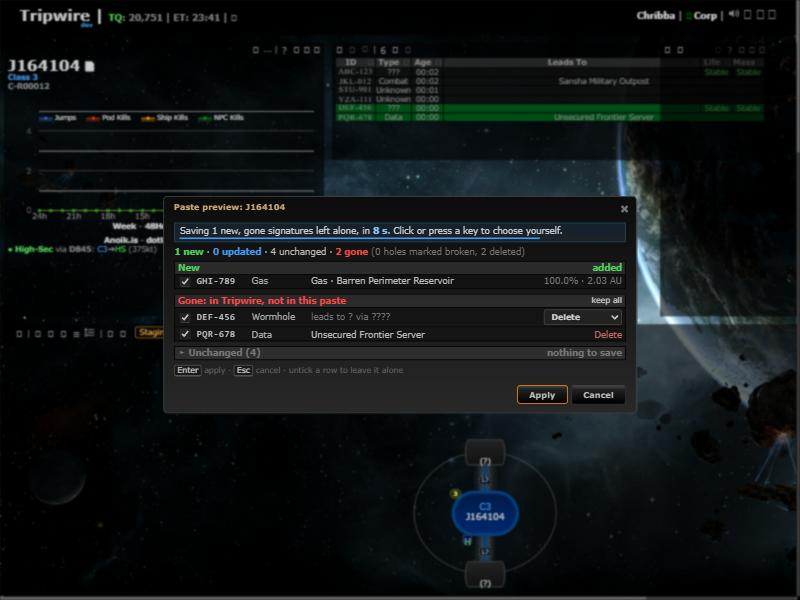
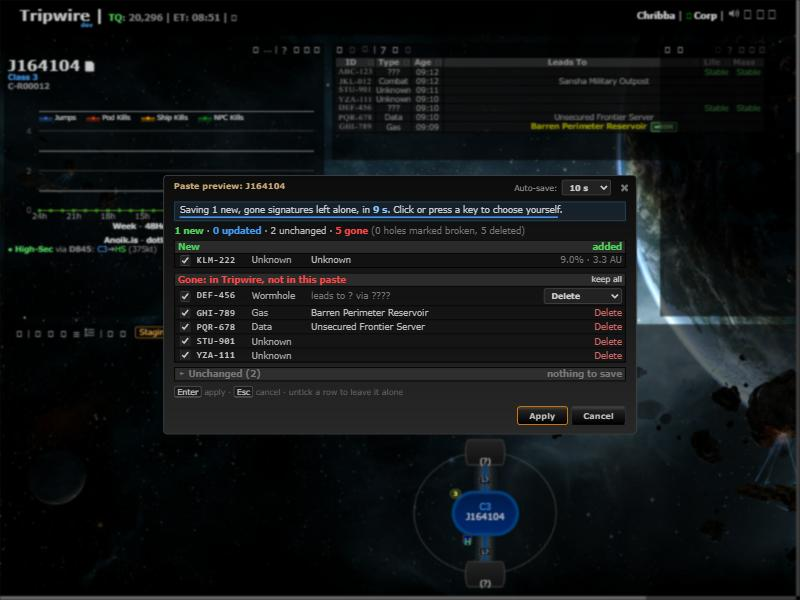
Paste preview: auto-save time drop-down (Never, 3, 5, 10 s)

diff --git a/app/js/fork/paste-preview.js b/app/js/fork/paste-preview.js
@@ -4,7 +4,8 @@ const pastePreview = {
 	// and Gone (in Tripwire but missing from the paste). Only when something would be Gone (or with "Always preview")
 	// a preview dialog lists the groups: untick a row to leave that sig alone, choose Delete or Mark broken for a gone
 	// wormhole (Delete by default; Mark broken: broken-holes.js), "keep all" for the Gone group. Apply (Enter) saves it
-	// all in one request and as one Undo step; Esc cancels and saves nothing. The dialog counts down AUTO_SECONDS: with
+	// all in one request and as one Undo step; Esc cancels and saves nothing. The dialog counts down autoSeconds() (a
+	// drop-down in its title bar: Never, 3, 5 or 10 s, saved in options.pastePreview.autoSeconds, missing = 10): with
 	// no input from the user by then (a click, key, scroll or touch anywhere stops the countdown) the paste is saved without
 	// the Gone group (keepGone: new and updated sigs only, nothing deleted or marked broken). Without anything Gone the
 	// paste saves straight away, as before, and a notice sums it up ("3 added, 1 updated") with an Undo link.
@@ -23,8 +24,18 @@ const pastePreview = {
 
 	DIALOG_ID: "paste-preview-dialog",
 
-	/** Seconds the preview waits for input before it saves the paste without the Gone group */
+	/** Seconds the preview waits for input before it saves the paste without the Gone group (the default) */
 	AUTO_SECONDS: 10,
+
+	/** The auto-save choices: [seconds, label]; 0 = never (the preview waits) */
+	AUTO_CHOICES: [[0, "Never"], [3, "3 s"], [5, "5 s"], [10, "10 s"]],
+
+	/** Auto-save after: options.pastePreview.autoSeconds when it is one of AUTO_CHOICES, else AUTO_SECONDS (0 = never) */
+	autoSeconds: function(opts) {
+		const raw = opts && opts.pastePreview ? opts.pastePreview.autoSeconds : undefined;
+		const v = raw === undefined || raw === null || raw === "" ? NaN : Number(raw);
+		return pastePreview.AUTO_CHOICES.some(function(c) { return c[0] === v; }) ? v : pastePreview.AUTO_SECONDS;
+	},
 
 	/** Preview pastes: on unless options.pastePreview.enabled is false */
 	enabled: function(opts) {
@@ -469,7 +480,7 @@ if (typeof window !== "undefined" && typeof jQuery !== "undefined" && jQuery.fn 
 			if (el) { el.focus(); }
 		}
 
-		// ---- The countdown: no input for AUTO_SECONDS saves the paste without the Gone group ----
+		// ---- The countdown: no input for autoSeconds() saves the paste without the Gone group (0: no countdown) ----
 		function countdownText(left) {
 			const c = pp.countChoices(state.groups);
 			const what = c.neu || c.upd ? "Saving " + [c.neu ? c.neu + " new" : "", c.upd ? c.upd + " updated" : ""].filter(Boolean).join(" and ") : "Closing without changes";
@@ -478,7 +489,9 @@ if (typeof window !== "undefined" && typeof jQuery !== "undefined" && jQuery.fn 
 		function startCountdown() {
 			stopCountdown();
 			const $a = $("#" + pp.DIALOG_ID + " .pp-auto");
-			const total = pp.AUTO_SECONDS * 1000, end = Date.now() + total;
+			const secs = pp.autoSeconds(opts());
+			if (!secs) { $a.hide(); return; }
+			const total = secs * 1000, end = Date.now() + total;
 			let shown = null;
 			$a.show().removeClass("pp-auto-stopped").find(".pp-auto-bar > span").css("width", "100%");
 			const tick = function() {
@@ -516,9 +529,32 @@ if (typeof window !== "undefined" && typeof jQuery !== "undefined" && jQuery.fn 
 			}
 		}
 
+		// The auto-save drop-down in the title bar (top right). Choosing stops this paste's countdown (any input does) and
+		// is saved for the next paste.
+		function autoSelect($d) {
+			const $bar = $d.parent().find(".ui-dialog-titlebar");
+			let $s = $bar.find(".pp-auto-select");
+			if (!$s.length) {
+				$s = $("<label class='pp-auto-select' title='Save the paste without removing anything when you make no choice in time'>Auto-save: <select aria-label='Auto-save after'>"
+					+ pp.AUTO_CHOICES.map(function(c) { return "<option value='" + c[0] + "'>" + pp.escape(c[1]) + "</option>"; }).join("") + "</select></label>");
+				$bar.find(".ui-dialog-titlebar-close").before($s);
+				$s.on("change", "select", function() {
+					const v = Number(this.value);
+					stopCountdown(false);
+					if (typeof options === "undefined") { return; }
+					options.pastePreview = Object.assign({}, options.pastePreview || {}, { autoSeconds: v });
+					try { if (typeof options.save === "function") { options.save(); } } catch (e) { console.warn("paste-preview: save", e); }
+					$("#" + pp.DIALOG_ID + " .pp-auto").show().addClass("pp-auto-stopped").find(".pp-auto-text")
+						.text("Auto-save " + (v ? "after " + v + " s" : "off") + " from the next paste. Choose, then Apply (Enter) or Cancel (Esc).");
+				});
+			}
+			$s.find("select").val(String(pp.autoSeconds(opts())));
+		}
+
 		function open() {
 			const $d = dialog();
 			$d.dialog("option", "title", "Paste preview: " + (systemName(state.systemID) || "this system"));
+			autoSelect($d);
 			render();
 			$d.dialog("open");
 			$d.parent().find(".pp-apply").trigger("focus");
@@ -574,7 +610,8 @@ if (typeof window !== "undefined" && typeof jQuery !== "undefined" && jQuery.fn 
 			if ($d.length && $d.dialog("isOpen")) { $d.dialog("close"); }
 			state = null;
 			if (pp.isEmpty(plan)) {
-				Notify.trigger("Paste: nothing to save" + (s.groups.same.length ? " (" + s.groups.same.length + " unchanged)" : "") + keptText + ".", "blue", 4000);
+				const why = [s.groups.same.length ? s.groups.same.length + " unchanged" : "", kept ? kept + " gone left alone: no choice made" : ""].filter(Boolean).join(", ");
+				Notify.trigger("Paste: nothing to save" + (why ? " (" + why + ")" : "") + ".", "blue", 4000);
 				return;
 			}
 			const payload = plan.payload;
@@ -649,11 +686,20 @@ if (typeof window !== "undefined" && typeof jQuery !== "undefined" && jQuery.fn 
 			forkSettings.register({
 				section: "signatures", order: 21, id: "pastePreview-enabled", type: "checkbox", key: "pastePreview",
 				label: "Preview pastes:",
-				text: "When a paste would remove signatures, show what changes first (gone signatures are deleted when you apply; with no input for " + pp.AUTO_SECONDS + " s only new and updated ones are saved)",
+				text: "When a paste would remove signatures, show what changes first (gone signatures are deleted when you apply)",
 				hint: "Off: a paste adds and updates straight away, with the old \"Click to delete missing sigs\" link.",
 				keywords: ["paste", "preview", "missing", "delete", "broken", "gone", "probe scanner"],
 				get: function(o) { return pp.enabled(o); },
 				set: function(o, on) { o.pastePreview = Object.assign({}, o.pastePreview || {}, { enabled: !!on }); }
+			});
+			forkSettings.register({
+				section: "signatures", order: 21.3, id: "pastePreview-auto", type: "select", key: "pastePreview",
+				label: "Paste preview auto-save:",
+				choices: pp.AUTO_CHOICES.map(function(c) { return [String(c[0]), c[0] ? "After " + c[1] : "Never (wait for me)"]; }),
+				hint: "With no input in time, the preview saves only new and updated signatures: nothing is deleted or marked broken. Also in the preview's top right.",
+				keywords: ["paste", "preview", "auto", "timer", "countdown", "seconds"],
+				get: function(o) { return String(pp.autoSeconds(o)); },
+				set: function(o, v) { o.pastePreview = Object.assign({}, o.pastePreview || {}, { autoSeconds: Number(v) }); }
 			});
 			forkSettings.register({
 				section: "signatures", order: 21.5, id: "pastePreview-always", type: "checkbox", key: "pastePreview",

diff --git a/app/js-test/fork/paste-preview.test.js b/app/js-test/fork/paste-preview.test.js
@@ -56,6 +56,16 @@ describe('pastePreview: settings', () => {
 		assert.strictEqual(pastePreview.always({ pastePreview: { always: true } }), true);
 		assert.strictEqual(pastePreview.always({ pastePreview: { always: true, enabled: false } }), false, 'off wins');
 	});
+	it('auto-save: 10 s unless set to Never, 3 or 5 s; anything else is the default', () => {
+		assert.strictEqual(pastePreview.autoSeconds(undefined), 10);
+		assert.strictEqual(pastePreview.autoSeconds({ pastePreview: {} }), 10);
+		assert.strictEqual(pastePreview.autoSeconds({ pastePreview: { autoSeconds: 0 } }), 0);
+		assert.strictEqual(pastePreview.autoSeconds({ pastePreview: { autoSeconds: 3 } }), 3);
+		assert.strictEqual(pastePreview.autoSeconds({ pastePreview: { autoSeconds: '5' } }), 5);
+		assert.strictEqual(pastePreview.autoSeconds({ pastePreview: { autoSeconds: 7 } }), 10);
+		assert.strictEqual(pastePreview.autoSeconds({ pastePreview: { autoSeconds: null } }), 10);
+		assert.deepStrictEqual(pastePreview.AUTO_CHOICES.map(c => c[0]), [0, 3, 5, 10]);
+	});
 });
 
 describe('pastePreview: parseRows', () => {

diff --git a/app/css/fork/paste-preview.css b/app/css/fork/paste-preview.css
@@ -37,6 +37,9 @@
 .pp-keys { margin-top: 8px; color: #666; font-size: 10px; }
 .pp-keys kbd { font-family: Verdana, sans-serif; font-size: 10px; border: 1px solid #555; border-bottom-width: 2px; border-radius: 3px; padding: 0 3px; color: #ccc; background: #1a1a1a; }
 .pp-ui-dialog .pp-apply { border-color: darkorange; }
+.pp-ui-dialog .ui-dialog-titlebar .pp-auto-select { position: absolute; right: 30px; top: 50%; transform: translateY(-50%);
+	font-size: 10px; font-weight: normal; color: #999; }
+.pp-ui-dialog .pp-auto-select select { background: #222; color: #ccc; border: 1px solid #444; font-size: 10px; font-family: Verdana, sans-serif; }
 @media (max-width: 640px) {
 	.pp-row { grid-template-columns: 18px 60px minmax(0, 1fr) auto; }
 	.pp-row > .pp-type { display: none; }

diff --git a/changes/2026-11-18-paste-preview-delete-default-countdown/README.md b/changes/2026-11-18-paste-preview-delete-default-countdown/README.md
@@ -1,4 +1,4 @@
-# Paste preview: Delete by default, 10 second auto-save
+# Paste preview: Delete by default, auto-save timer
 
 **Date:** 2026-11-18
 
@@ -6,7 +6,8 @@
 
 The paste preview waited for an answer and pre-selected "Mark broken" for gone wormholes. Now every gone signature
 defaults to Delete, and the dialog counts down 10 seconds: with no input by then the paste saves only its new and
-updated signatures and leaves everything gone as it is (nothing deleted, nothing marked broken).
+updated signatures and leaves everything gone as it is (nothing deleted, nothing marked broken). The time is a
+drop-down in the preview's top right (Never, 3 s, 5 s, 10 s), also in Settings > Signatures.
 
 ## Before / After
 
@@ -16,10 +17,13 @@ updated signatures and leaves everything gone as it is (nothing deleted, nothing
 
 No input for 10 seconds: ![after auto-save](after-auto.png)
 
+The auto-save drop-down, top right: ![drop-down](after-dropdown.jpg)
+
 ## Settings
 
-No new toggle: this changes how the existing preview behaves (Settings > Signatures > Preview pastes still turns the
-preview off). Tip: none, the countdown explains itself in the dialog.
+Settings > Signatures > **Paste preview auto-save** (After 10 s by default; Never, 3 s, 5 s), stored in
+`options.pastePreview.autoSeconds` (missing = 10; covered by the existing `pastePreview` mask default). The same choice is a
+drop-down in the preview's title bar. Settings > Signatures > Preview pastes still turns the preview off. Tip: none, the countdown explains itself in the dialog.
 
 ## Change
 
@@ -29,6 +33,8 @@ preview off). Tip: none, the countdown explains itself in the dialog.
   Enter, Esc / Cancel). At zero the preview applies `keepGone`: adds, updates and broken-hole restores only. The notice
   says "(2 gone left alone: no choice made)". An auto-save is tracked as the event `auto_saved` (not the use `applied`; added to `public/fork/feature-catalog.json`).
   Stopped by input, the line stays in place ("Countdown stopped") so the buttons don't move under the mouse.
-- Settings > Signatures > Preview pastes text updated.
-- `app/css/fork/paste-preview.css`: the countdown line.
-- Tests: Delete default, `keepGone` plan, choice counts (`app/js-test/fork/paste-preview.test.js`).
+- `AUTO_CHOICES` / `autoSeconds(opts)`; a drop-down in the dialog's title bar (left of the close button) saves the
+  choice with `options.save()` for the next paste and stops the current countdown; Never (0) shows no countdown.
+  Settings row `pastePreview-auto` (order 21.3). Preview pastes text updated.
+- `app/css/fork/paste-preview.css`: the countdown line and the title-bar drop-down.
+- Tests: Delete default, `keepGone` plan, choice counts, `autoSeconds` (`app/js-test/fork/paste-preview.test.js`).

diff --git a/changes/README.md b/changes/README.md
@@ -5,7 +5,7 @@ Every change to this fork gets an entry here. See [AGENTS.md](../AGENTS.md) for 
 
 | Date | Feature | Summary |
 | --- | --- | --- |
-| 2026-11-18 | [Paste preview: Delete by default, 10 second auto-save](2026-11-18-paste-preview-delete-default-countdown/README.md) | Gone signatures in the paste preview default to Delete (wormholes too); the preview counts down 10 s and, with no input, saves only new and updated signatures, leaving gone ones alone |
+| 2026-11-18 | [Paste preview: Delete by default, auto-save timer](2026-11-18-paste-preview-delete-default-countdown/README.md) | Gone signatures in the paste preview default to Delete (wormholes too); the preview counts down (10 s by default; Never / 3 / 5 / 10 s in its top-right drop-down and Settings > Signatures) and, with no input, saves only new and updated signatures, leaving gone ones alone |
 | 2026-11-15 | [Paste preview, with gone holes marked broken](2026-11-15-paste-preview/README.md) | A probe scanner paste that would remove signatures opens a preview first (New / Updated / Unchanged / Gone, untick to leave a sig alone; Settings > Signatures > Preview pastes, Always preview); gone wormholes are marked broken instead of deleted (red dashed on the map, routes leave them out, Restore on the map or in the list, shared per mask in `fork_broken_wormholes`); Apply is one request and one Undo step |
 | 2026-11-15 | [Relic and data site value](2026-11-15-relic-data-site-values/README.md) | The site value chip also covers relic and data sites (not wormhole Unsecured sites): Ruined sites get a live expected-salvage model ("~26M exp.", T2/T1 breakdown, a dominant item such as Logic Circuit flagged, not capped), Forgotten sites their Sleeper rat loot, Central/Local/Decayed/Crumbling a dated rough range (dashed), and Rogue Drone, Regional, ghost sites, Sleeper caches and Silent Battleground "?" with the reason |
 | 2026-11-15 | [Flare reason and lifetime](2026-11-15-flare-reason-life/README.md) | Ports upstream 2.0's flare rework (a9c49177): right-click a system > Flares > Set flare ... sets the colour, 1 day or until removed, and an optional reason shown in the system panel and a map tooltip; re-colouring keeps lifetime, reason and set time; schema added on first set (once per database, cooldown on failure), flaresClean event per-flare lifetime |
